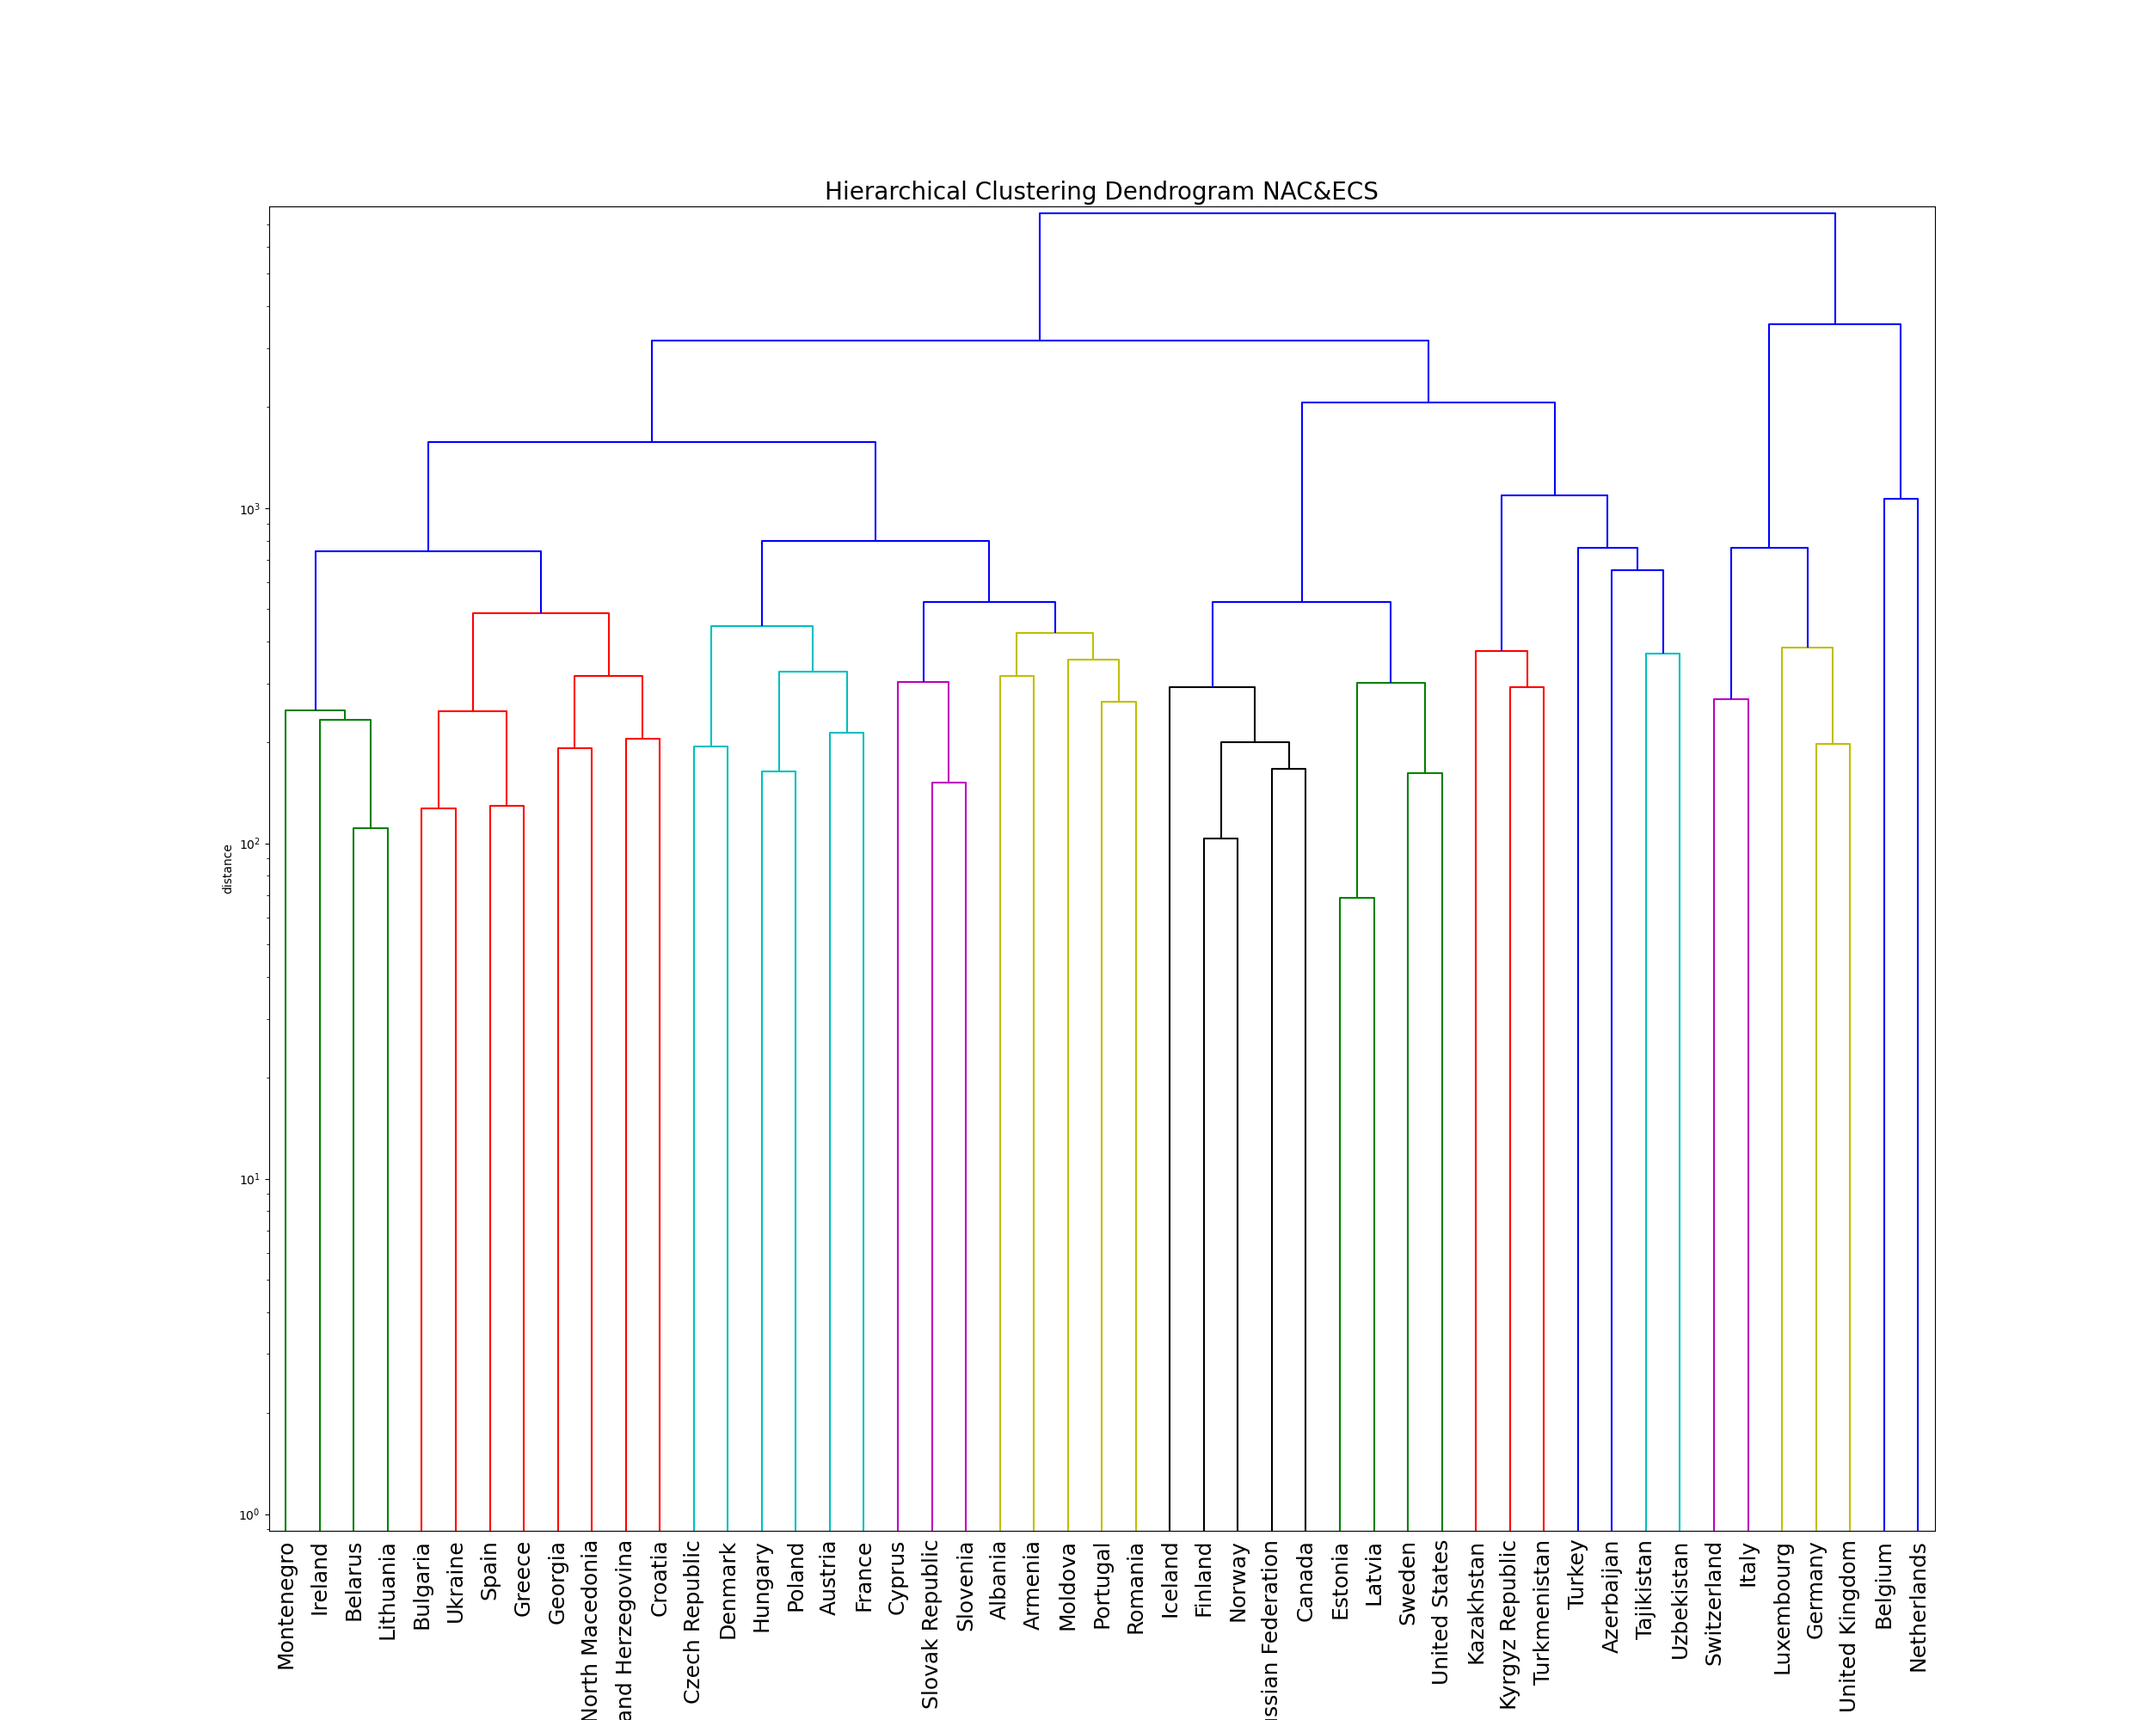
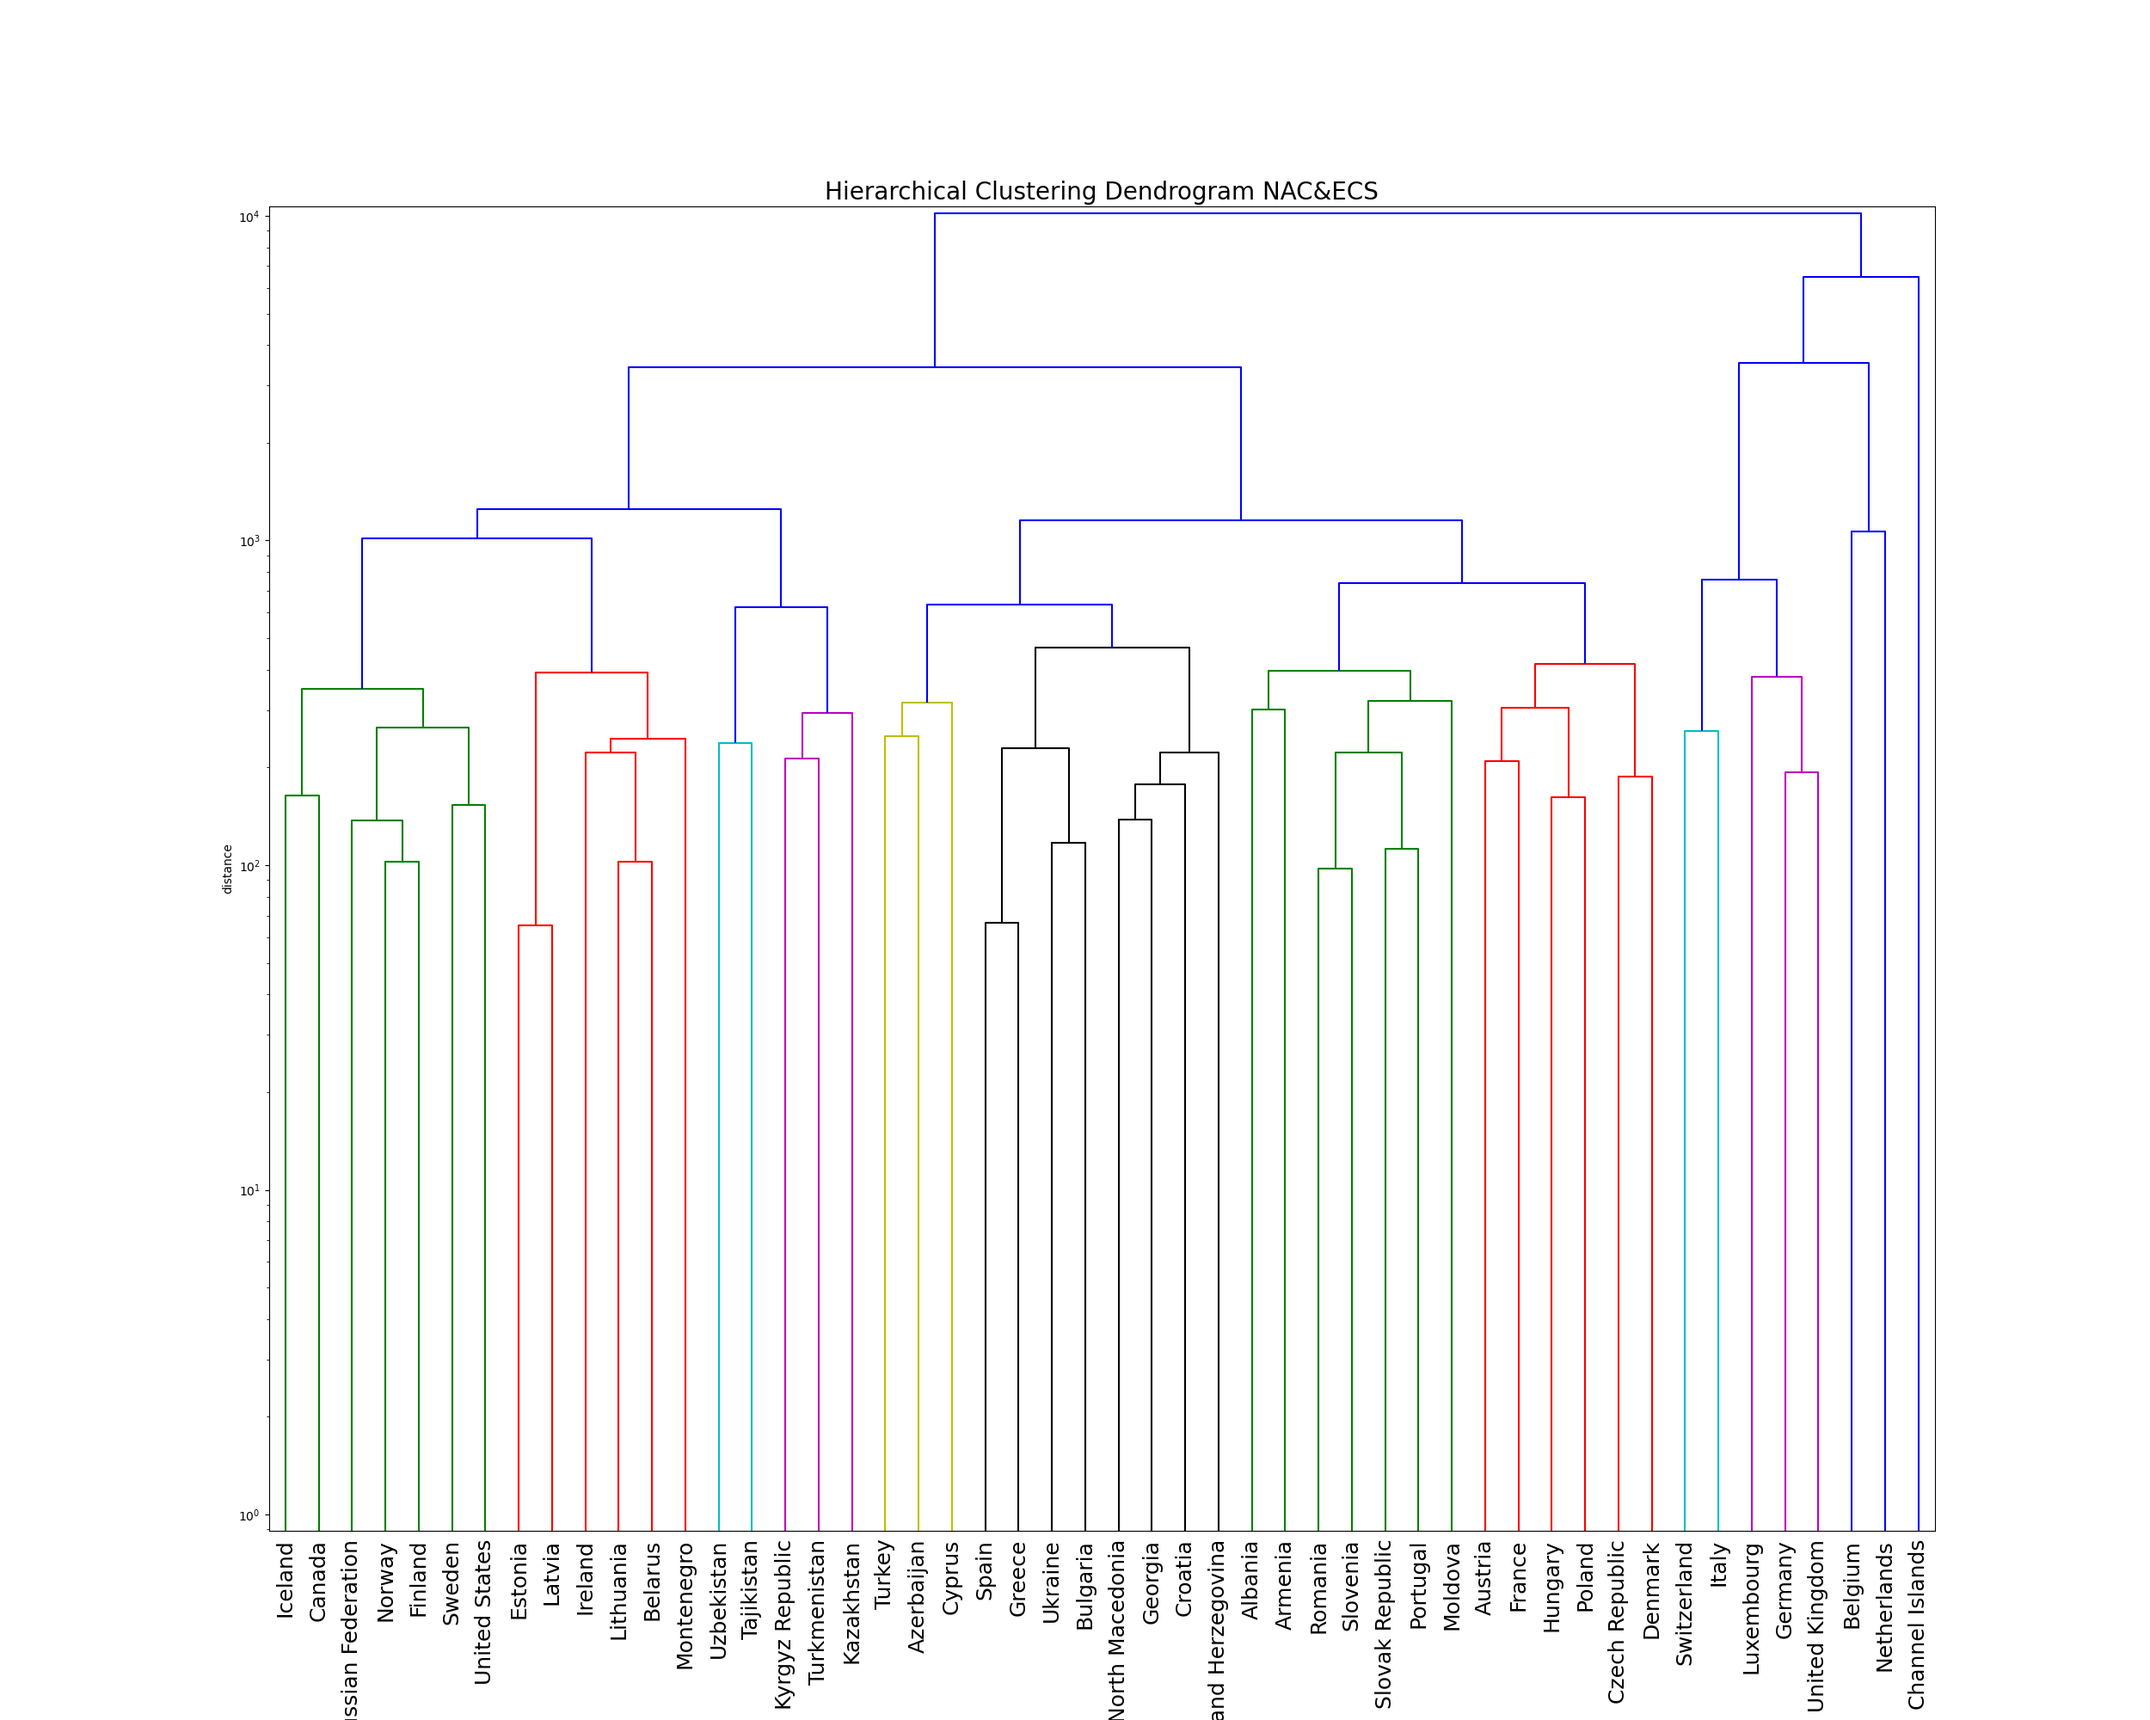
[DENDRO] Whole World

diff --git a/hierarchical-example.py b/hierarchical-example.py
@@ -85,8 +85,10 @@ def plot_dendrogram(group_name, region, data_per_country, featured_countries, us
     X = np.array([np.array(data_per_country[country]).flatten('F') for country in featured_countries])
     metric = "euclidean"
     method = "ward"
-    Z = linkage(X, method, metric=metric)
-    fig = plt.figure(figsize=(25, 20))
+    Z = linkage(X, method, metric=metric, optimal_ordering=True)
+    fig = plt.figure(figsize=(80, 20))
+    # (80, 20) for whole world
+    # (25, 20)
     plt.title('Hierarchical Clustering Dendrogram ' + region, fontsize=20)
     plt.xlabel('sample index')
     plt.ylabel('distance')
@@ -161,7 +163,43 @@ def evaluate_sociodemography():
                 plot_dendrogram(group_name, region, data_per_country, featured_countries, used_indicators, color_threshold=160)
 
 
+def evaluate_demography_world():
+    group_name = "demography"
+    used_indicators = DEMOGRAPHIC_INDICATORS
+    data_per_country = {}
+    for region in all_regions:
+        if region != 'NA':
+            data_per_country.update(get_data_per_country(used_indicators, region, group_name))
+    featured_countries = [country for (country, data) in data_per_country.items()]
+    plot_dendrogram(group_name, "World_optimal", data_per_country, featured_countries, used_indicators)
+
+
+def evaluate_sociodemography_world():
+    group_name = "sociodemography"
+    used_indicators = SOCIODEMOGAPHIC_INDICATORS
+    data_per_country = {}
+    for region in all_regions:
+        if region != 'NA':
+            data_per_country.update(get_data_per_country(used_indicators, region, group_name, start_year=1979))
+    featured_countries = [country for (country, data) in data_per_country.items()]
+    plot_dendrogram(group_name, "World_optimal", data_per_country, featured_countries, used_indicators)
+
+
+def evaluate_economy_world():
+    group_name = "economy"
+    used_indicators = ECONOMIC_INDICATORS
+    data_per_country = {}
+    for region in all_regions:
+        if region != 'NA':
+            data_per_country.update(get_data_per_country(used_indicators, region, group_name, start_year=1989))
+    featured_countries = [country for (country, data) in data_per_country.items()]
+    plot_dendrogram(group_name, "World_optimal", data_per_country, featured_countries, used_indicators, color_threshold=100000000000)
+
+
 if __name__ == "__main__":
-    # evaluate_demography()
+    evaluate_demography_world()
+    evaluate_sociodemography_world()
+    evaluate_economy_world()
+    evaluate_demography()
     evaluate_economy()
     evaluate_sociodemography()
